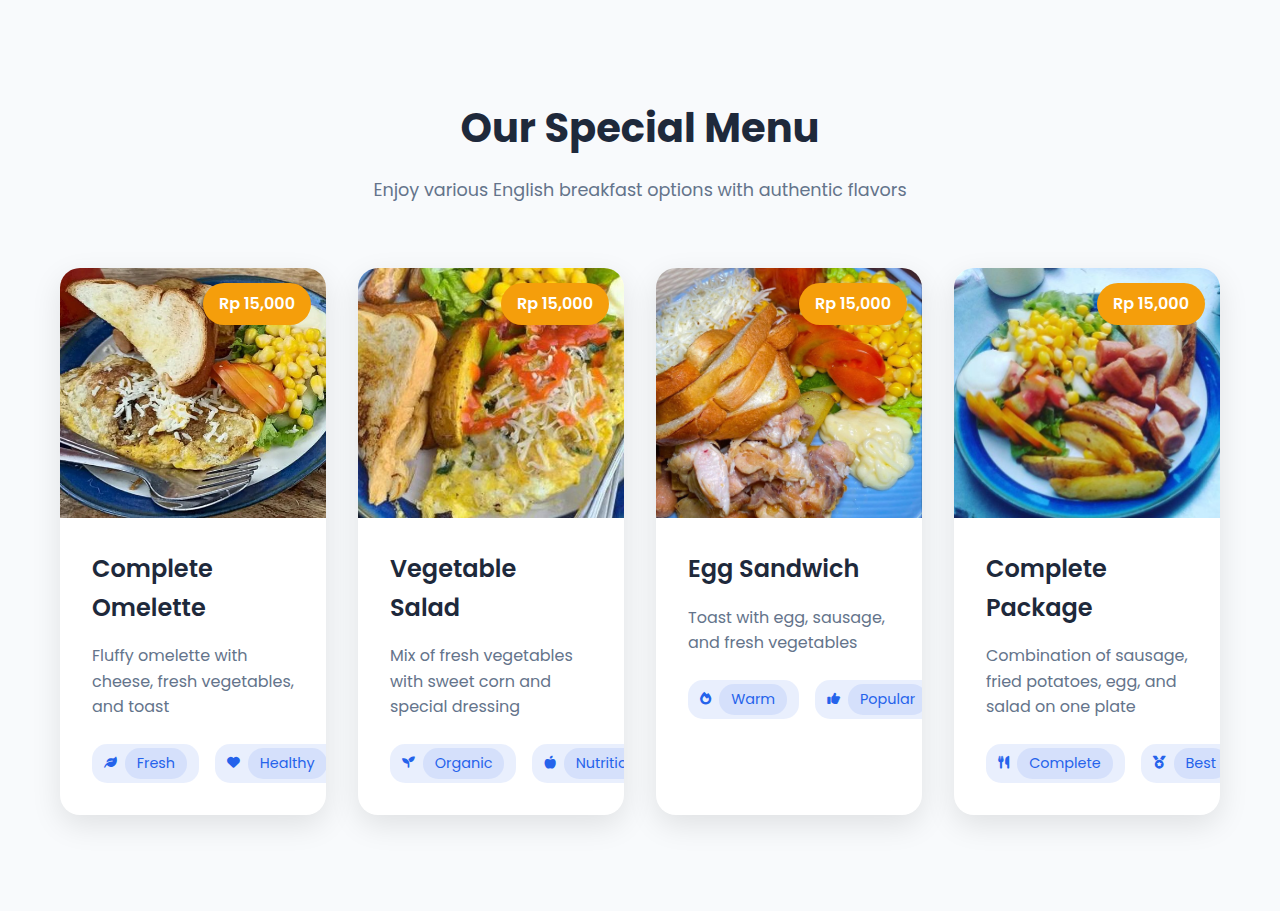
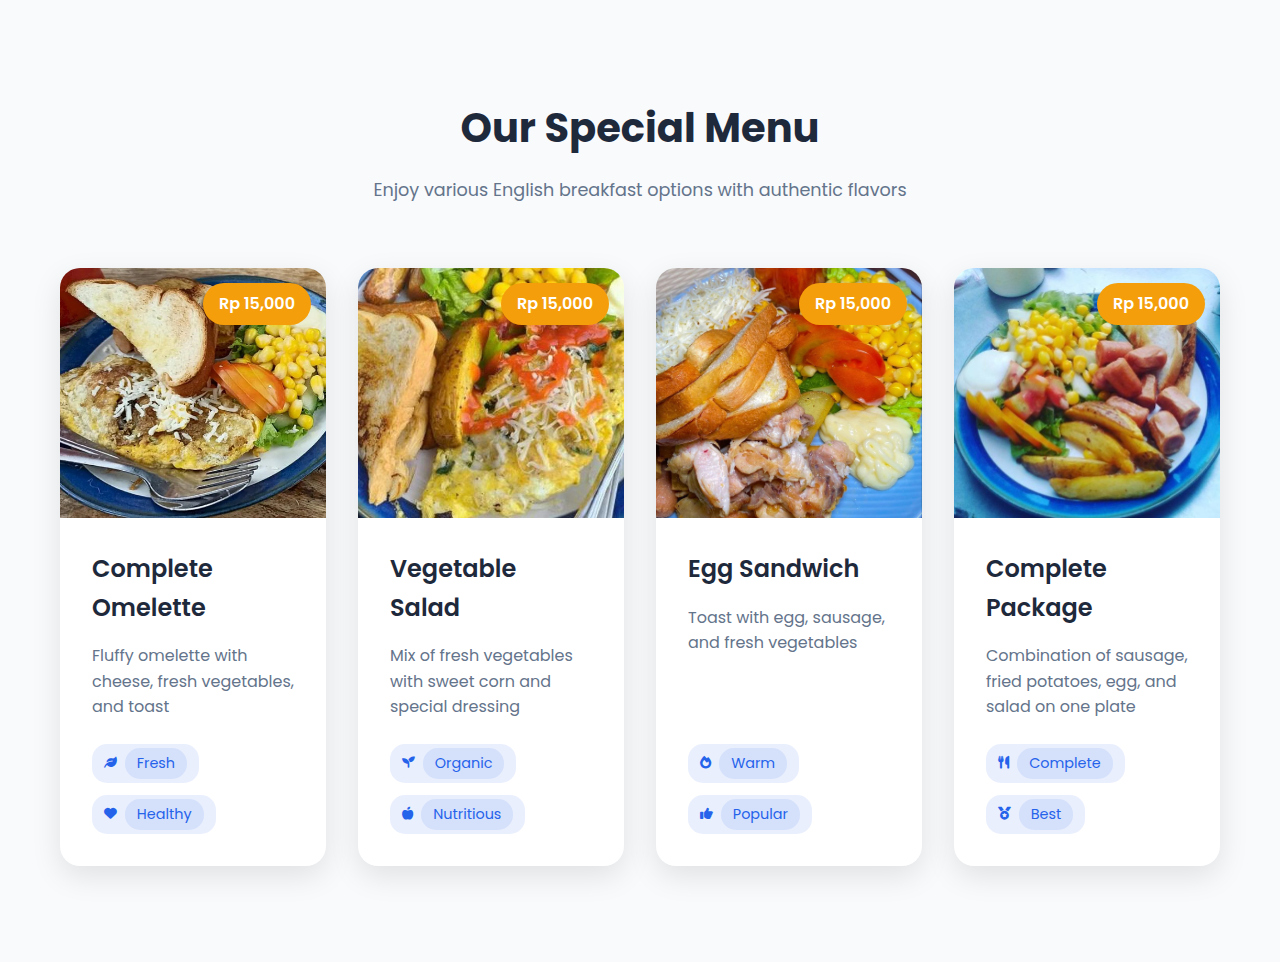
Align menu card tags and stop them clipping
The feature tag row had no flex-wrap, so the longer English labels
ran past the card edge and were cut off by the card's overflow
hidden. Tags also sat at different heights per card since content
flows from the top and some titles wrap to two lines. Make each
card a flex column and pin the wrapping tag row to the card bottom
so every card lines up straight. Refresh the menu screenshot in the
README.

Claude-Session: https://claude.ai/code/session_01DYdViF9bkkDzCywD4DWG4E

diff --git a/landing-page-sarapan-ala-bule-main/landing_page/style.css b/landing-page-sarapan-ala-bule-main/landing_page/style.css
@@ -308,6 +308,8 @@ body {
 }
 
 .menu-item {
+    display: flex;
+    flex-direction: column;
     background: white;
     border-radius: 20px;
     overflow: hidden;
@@ -349,6 +351,9 @@ body {
 }
 
 .menu-content {
+    display: flex;
+    flex-direction: column;
+    flex: 1;
     padding: 2rem;
 }
 
@@ -367,7 +372,9 @@ body {
 
 .menu-features {
     display: flex;
-    gap: 1rem;
+    flex-wrap: wrap;
+    gap: 0.75rem;
+    margin-top: auto;
 }
 
 .menu-features span {